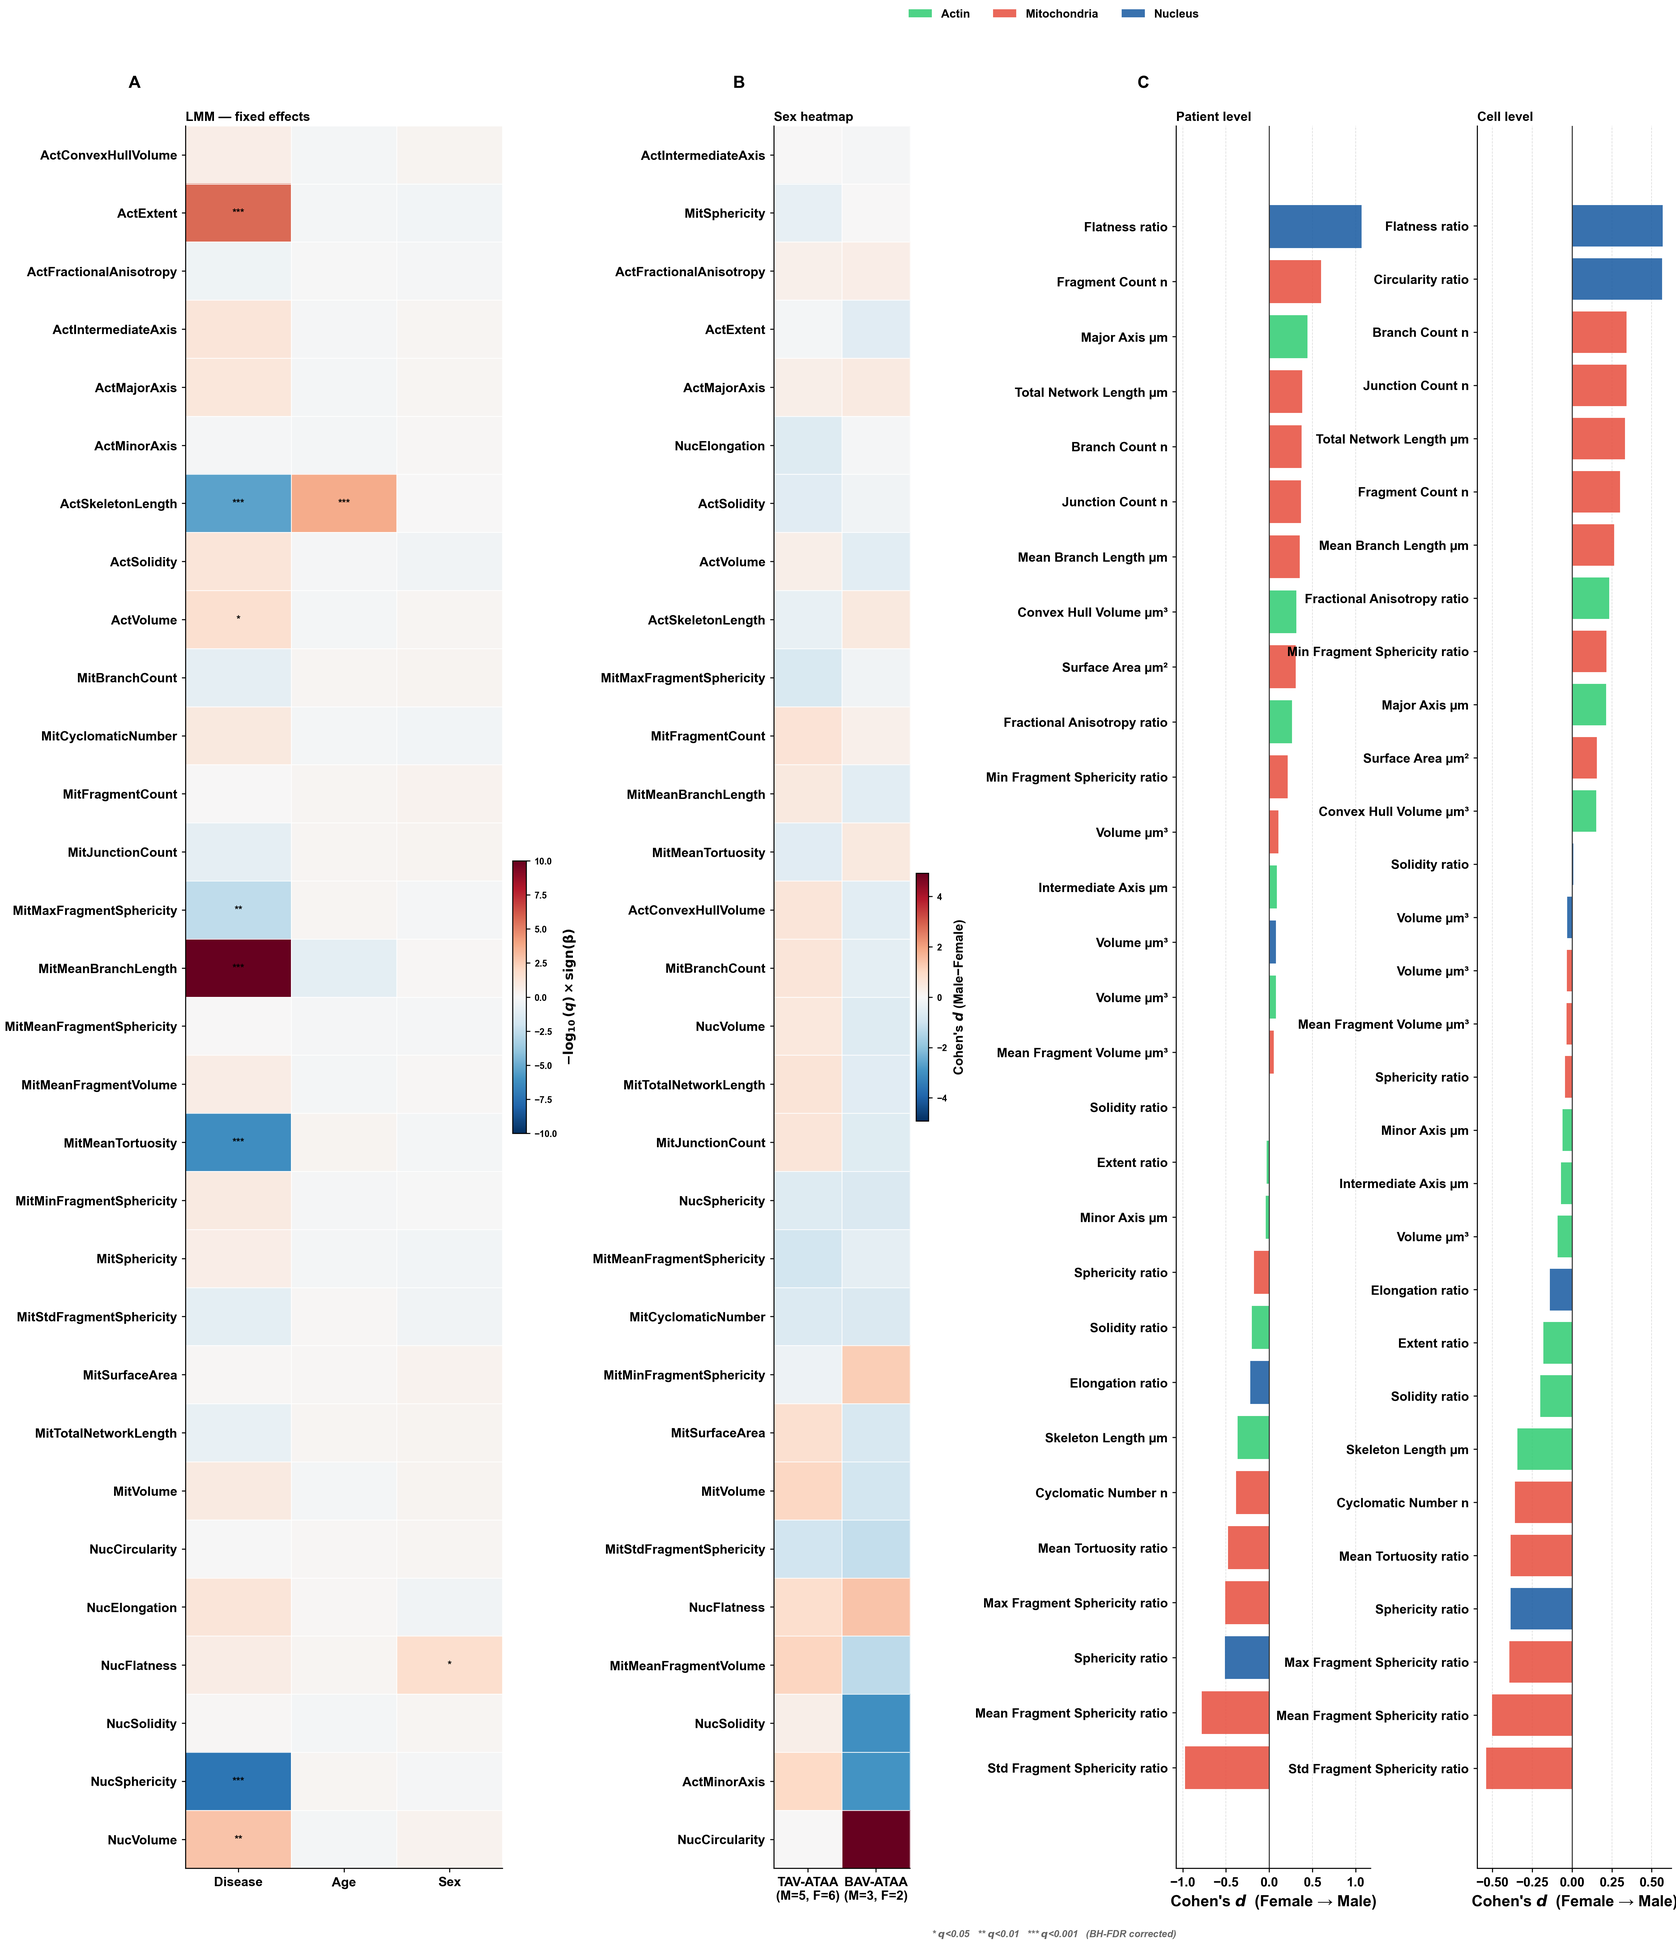
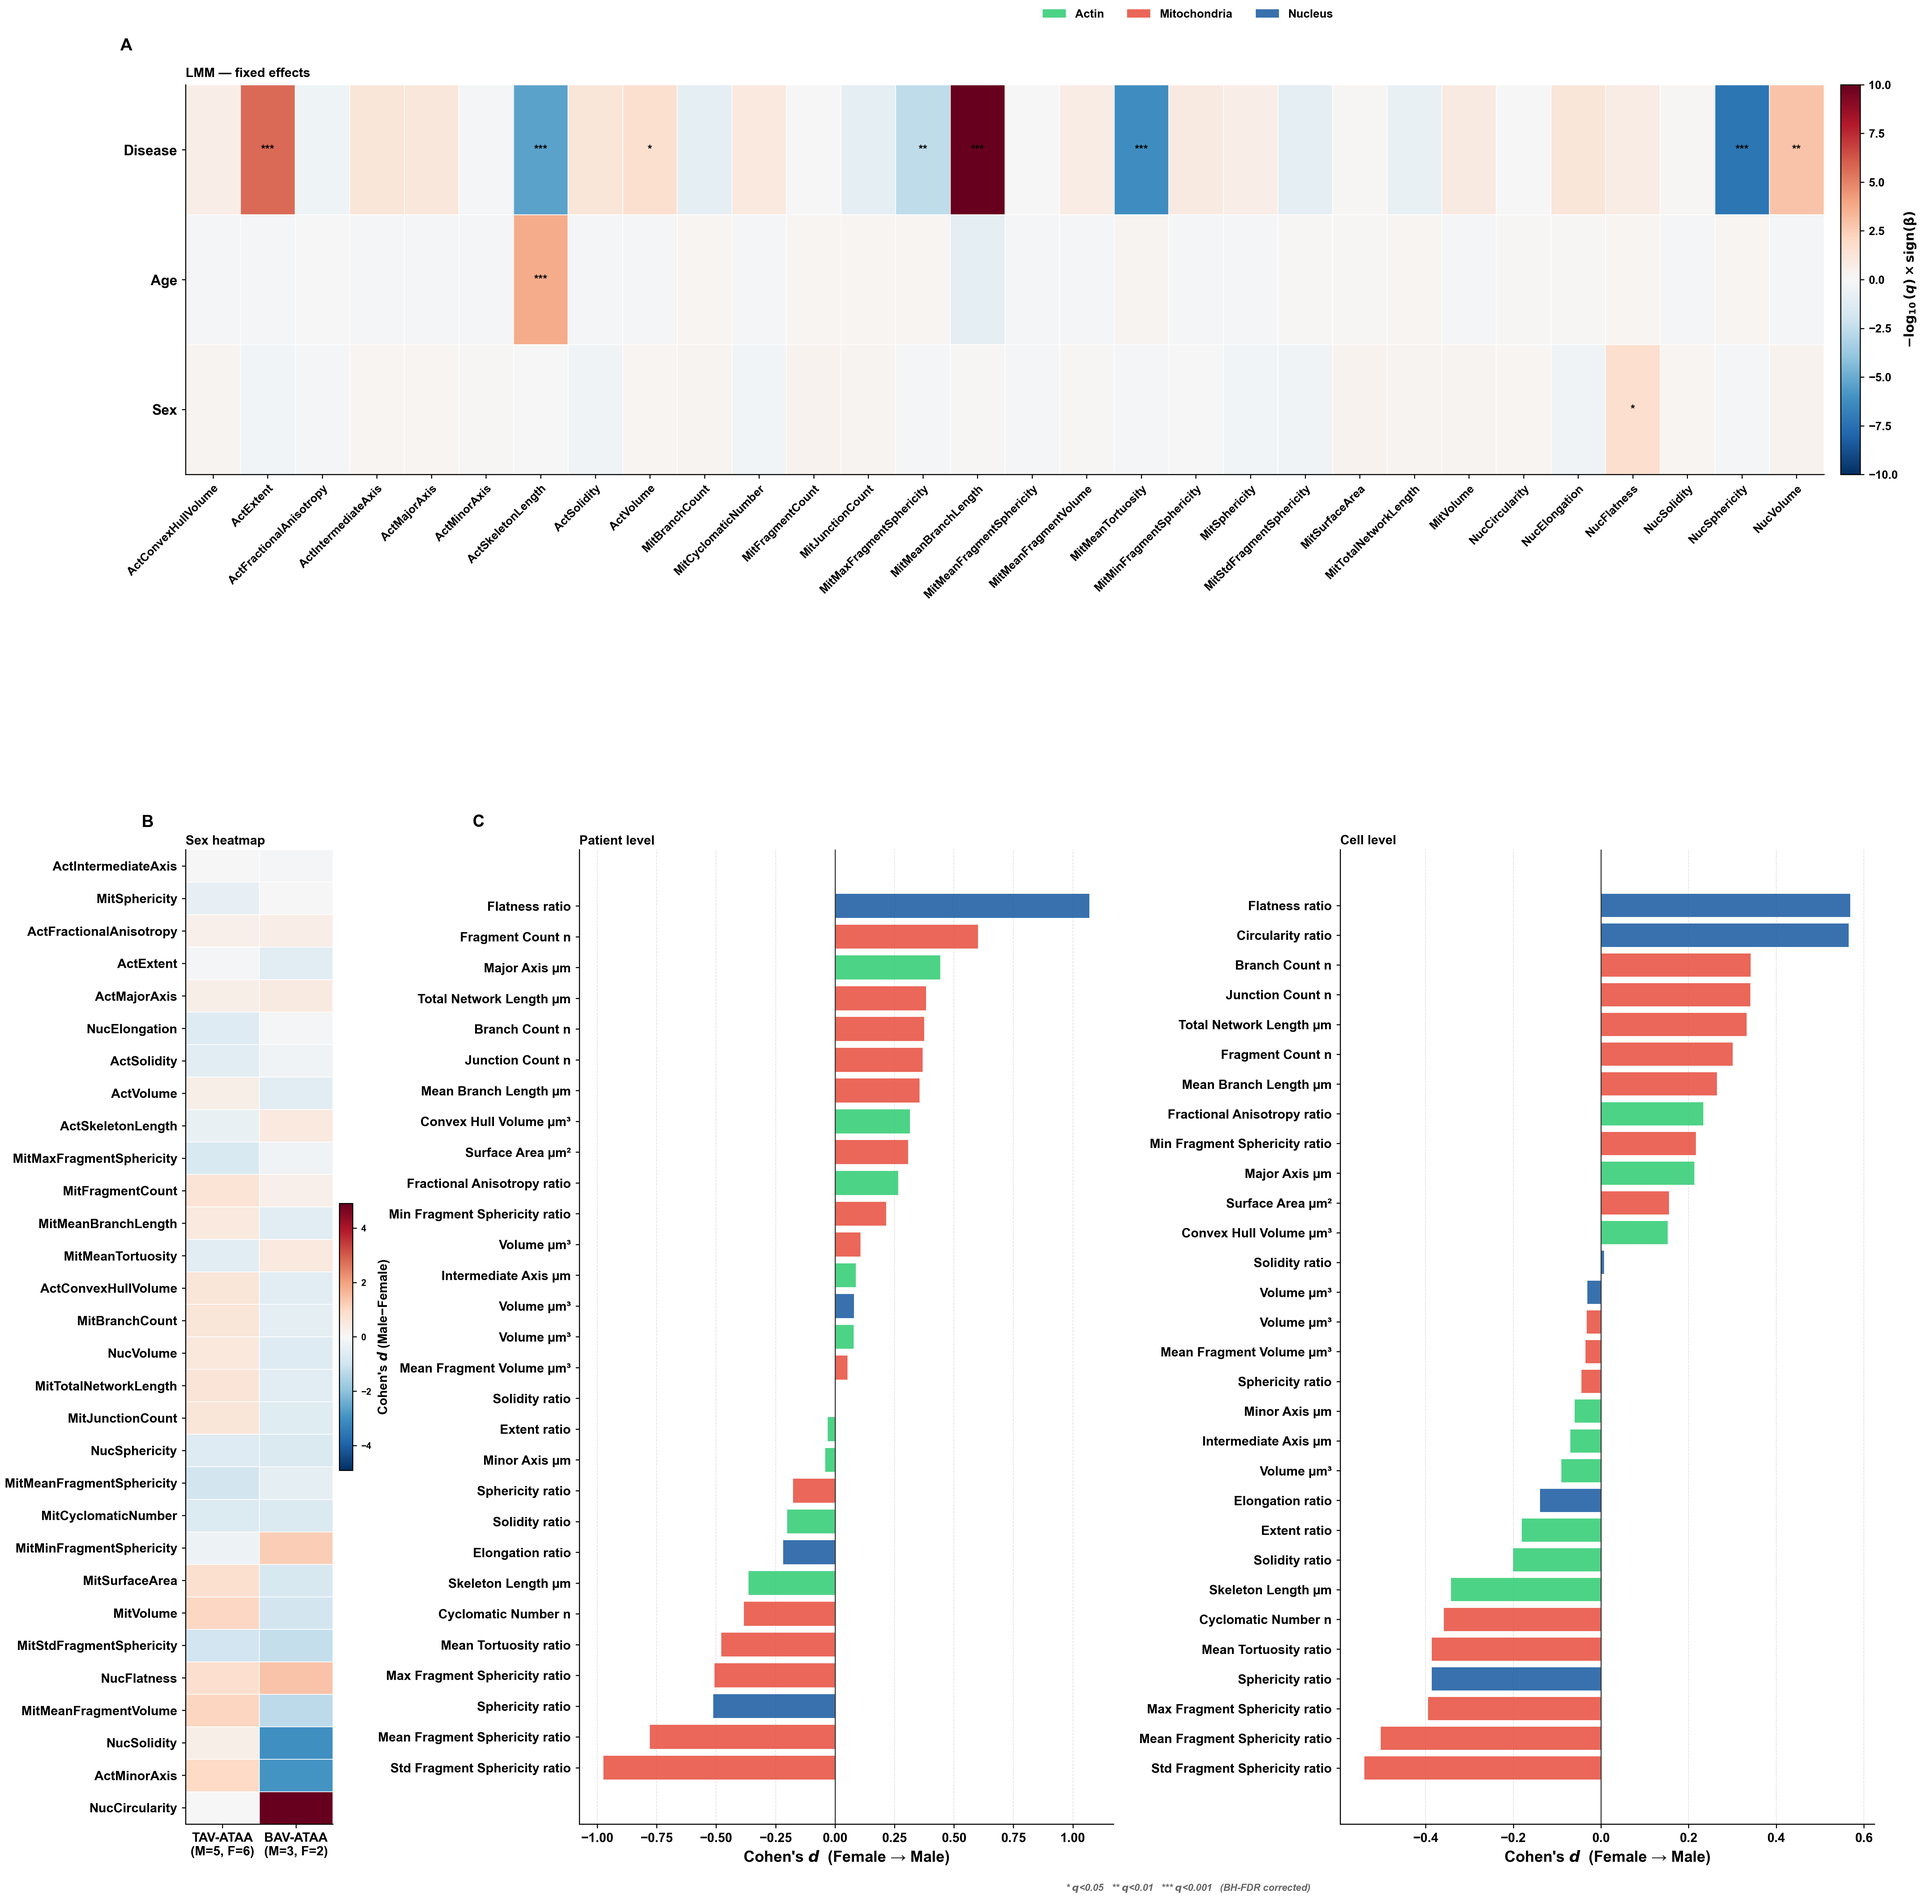
transpose LMM heatmap to horizontal layout (features=cols, terms=rows)

diff --git a/src/analysis/plot_part1_l3_l5_composite.py b/src/analysis/plot_part1_l3_l5_composite.py
@@ -97,20 +97,21 @@ plt.rcParams.update({
 })
 
 # ── figure layout ─────────────────────────────────────────────────────────────
-# A (LMM heatmap) | B (Sex heatmap) | C (Sex bars: patient + cell)
+# Top:    A — LMM heatmap (full width, horizontal: features=cols, terms=rows)
+# Bottom: B — Sex heatmap | C — Sex bars (patient + cell)
 n_feat = len(feat_cols)
-fig = plt.figure(figsize=(18, n_feat * 0.62 + 2.5))
-gs  = fig.add_gridspec(1, 3, width_ratios=[2.2, 1.0, 3.2],
-                        left=0.08, right=0.97, top=0.93, bottom=0.04,
-                        wspace=0.75)
-ax_lmm  = fig.add_subplot(gs[0])
-ax_sexh = fig.add_subplot(gs[1])
-gs_bars = gs[2].subgridspec(1, 2, wspace=0.55)
-ax_pt   = fig.add_subplot(gs_bars[0])
-ax_cell = fig.add_subplot(gs_bars[1])
+fig = plt.figure(figsize=(20, n_feat * 0.42 + 8))
+gs  = fig.add_gridspec(2, 1, height_ratios=[1, 2.5],
+                        left=0.06, right=0.97, top=0.95, bottom=0.04,
+                        hspace=0.55)
+ax_lmm   = fig.add_subplot(gs[0])
+gs_bot   = gs[1].subgridspec(1, 3, width_ratios=[1.0, 3.2, 3.2], wspace=0.55)
+ax_sexh  = fig.add_subplot(gs_bot[0])
+ax_pt    = fig.add_subplot(gs_bot[1])
+ax_cell  = fig.add_subplot(gs_bot[2])
 
 # ══════════════════════════════════════════════════════════════════════════════
-# PANEL A — LMM heatmap
+# PANEL A — LMM heatmap (horizontal: terms=rows, features=columns)
 # ══════════════════════════════════════════════════════════════════════════════
 lmm = lmm_full.copy()
 term_order = [t for t in ['Disease', 'Age', 'Sex'] if t in lmm['Term'].unique()]
@@ -124,37 +125,41 @@ pivot   = (lmm.pivot(index='Feature', columns='Term', values='score')
 sig_piv = (lmm.pivot(index='Feature', columns='Term', values='Significant')
               .reindex(index=feat_order_lmm, columns=term_order).fillna(False))
 
-y_labels_lmm = [abbrev(f) for f in feat_order_lmm]
+x_labels_lmm = [abbrev(f) for f in feat_order_lmm]
 n_f, n_t = len(feat_order_lmm), len(term_order)
 vmax_lmm = max(3.0, float(np.abs(pivot.values).max()))
 
-im_lmm = ax_lmm.imshow(pivot.values, aspect='auto',
+# Transpose: rows=terms, cols=features
+data_lmm = pivot.T.values
+sig_lmm  = sig_piv.T.values
+
+im_lmm = ax_lmm.imshow(data_lmm, aspect='auto',
                         cmap='RdBu_r', vmin=-vmax_lmm, vmax=vmax_lmm)
-ax_lmm.set_xticks(np.arange(n_t))
-ax_lmm.set_xticklabels(term_order, fontsize=10, fontweight='bold')
-ax_lmm.set_yticks(np.arange(n_f))
-ax_lmm.set_yticklabels(y_labels_lmm, fontsize=10, fontweight='bold')
-ax_lmm.set_xticks(np.arange(-0.5, n_t, 1), minor=True)
-ax_lmm.set_yticks(np.arange(-0.5, n_f, 1), minor=True)
+ax_lmm.set_yticks(np.arange(n_t))
+ax_lmm.set_yticklabels(term_order, fontsize=11, fontweight='bold')
+ax_lmm.set_xticks(np.arange(n_f))
+ax_lmm.set_xticklabels(x_labels_lmm, fontsize=9, fontweight='bold',
+                        rotation=45, ha='right', rotation_mode='anchor')
+ax_lmm.set_xticks(np.arange(-0.5, n_f, 1), minor=True)
+ax_lmm.set_yticks(np.arange(-0.5, n_t, 1), minor=True)
 ax_lmm.grid(which='minor', color='white', linewidth=0.6)
 ax_lmm.tick_params(which='minor', bottom=False, left=False)
 
 sig_map = (lmm.pivot(index='Feature', columns='Term', values='BH_q')
               .reindex(index=feat_order_lmm, columns=term_order).fillna(1.0))
-for i in range(n_f):
-    for j in range(n_t):
-        if sig_piv.iloc[i, j]:
-            ax_lmm.text(j, i, sig_stars(sig_map.iloc[i, j]),
-                        ha='center', va='center', fontsize=8, color='black')
+for i in range(n_t):
+    for j in range(n_f):
+        if sig_lmm[i, j]:
+            ax_lmm.text(j, i, sig_stars(sig_map.iloc[j, i]),
+                        ha='center', va='center', fontsize=9, color='black')
 
-cbar_lmm = fig.colorbar(im_lmm, ax=ax_lmm, fraction=0.04, pad=0.03)
+cbar_lmm = fig.colorbar(im_lmm, ax=ax_lmm, fraction=0.02, pad=0.01)
 cbar_lmm.set_label(r'$-\log_{10}(q)\times\mathrm{sign(\beta)}$', fontsize=10, fontweight='bold')
 cbar_lmm.ax.tick_params(labelsize=9)
-# no dashed threshold lines
 
-ax_lmm.text(-0.18, 1.02, 'A', transform=ax_lmm.transAxes,
+ax_lmm.text(-0.04, 1.08, 'A', transform=ax_lmm.transAxes,
             fontsize=13, fontweight='bold', va='bottom')
-ax_lmm.set_title('LMM — fixed effects', fontsize=10, pad=4, loc='left', fontweight='bold')
+ax_lmm.set_title('LMM — fixed effects', fontsize=10, pad=6, loc='left', fontweight='bold')
 
 # ══════════════════════════════════════════════════════════════════════════════
 # PANEL B — Sex heatmap (Cohen's d Male−Female within each group)

diff --git a/src/analysis/plot_part2_l3_l5_composite.py b/src/analysis/plot_part2_l3_l5_composite.py
@@ -94,19 +94,21 @@ plt.rcParams.update({
 })
 
 # ── figure layout ─────────────────────────────────────────────────────────────
+# Top:    A — LMM heatmap (full width, horizontal: features=cols, terms=rows)
+# Bottom: B — Sex heatmap | C — Sex bars (patient + cell)
 n_feat = len(feat_cols)
-fig = plt.figure(figsize=(18, n_feat * 0.62 + 2.5))
-gs  = fig.add_gridspec(1, 3, width_ratios=[2.2, 1.0, 3.2],
-                        left=0.08, right=0.97, top=0.93, bottom=0.04,
-                        wspace=0.75)
-ax_lmm  = fig.add_subplot(gs[0])
-ax_sexh = fig.add_subplot(gs[1])
-gs_bars = gs[2].subgridspec(1, 2, wspace=0.55)
-ax_pt   = fig.add_subplot(gs_bars[0])
-ax_cell = fig.add_subplot(gs_bars[1])
+fig = plt.figure(figsize=(20, n_feat * 0.42 + 8))
+gs  = fig.add_gridspec(2, 1, height_ratios=[1, 2.5],
+                        left=0.06, right=0.97, top=0.95, bottom=0.04,
+                        hspace=0.55)
+ax_lmm   = fig.add_subplot(gs[0])
+gs_bot   = gs[1].subgridspec(1, 3, width_ratios=[1.0, 3.2, 3.2], wspace=0.55)
+ax_sexh  = fig.add_subplot(gs_bot[0])
+ax_pt    = fig.add_subplot(gs_bot[1])
+ax_cell  = fig.add_subplot(gs_bot[2])
 
 # ══════════════════════════════════════════════════════════════════════════════
-# PANEL A — LMM heatmap
+# PANEL A — LMM heatmap (horizontal: terms=rows, features=columns)
 # ══════════════════════════════════════════════════════════════════════════════
 lmm = lmm_full.copy()
 term_order = [t for t in ['Disease', 'Age', 'Sex'] if t in lmm['Term'].unique()]
@@ -122,34 +124,39 @@ sig_piv = (lmm.pivot(index='Feature', columns='Term', values='Significant')
 sig_map = (lmm.pivot(index='Feature', columns='Term', values='BH_q')
               .reindex(index=feat_order_lmm, columns=term_order).fillna(1.0))
 
-y_labels_lmm = [abbrev(f) for f in feat_order_lmm]
+x_labels_lmm = [abbrev(f) for f in feat_order_lmm]
 n_f, n_t = len(feat_order_lmm), len(term_order)
 vmax_lmm = max(3.0, float(np.abs(pivot.values).max()))
 
-im_lmm = ax_lmm.imshow(pivot.values, aspect='auto',
+# Transpose: rows=terms, cols=features
+data_lmm = pivot.T.values
+sig_lmm  = sig_piv.T.values
+
+im_lmm = ax_lmm.imshow(data_lmm, aspect='auto',
                         cmap='RdBu_r', vmin=-vmax_lmm, vmax=vmax_lmm)
-ax_lmm.set_xticks(np.arange(n_t))
-ax_lmm.set_xticklabels(term_order, fontsize=10, fontweight='bold')
-ax_lmm.set_yticks(np.arange(n_f))
-ax_lmm.set_yticklabels(y_labels_lmm, fontsize=10, fontweight='bold')
-ax_lmm.set_xticks(np.arange(-0.5, n_t, 1), minor=True)
-ax_lmm.set_yticks(np.arange(-0.5, n_f, 1), minor=True)
+ax_lmm.set_yticks(np.arange(n_t))
+ax_lmm.set_yticklabels(term_order, fontsize=11, fontweight='bold')
+ax_lmm.set_xticks(np.arange(n_f))
+ax_lmm.set_xticklabels(x_labels_lmm, fontsize=9, fontweight='bold',
+                        rotation=45, ha='right', rotation_mode='anchor')
+ax_lmm.set_xticks(np.arange(-0.5, n_f, 1), minor=True)
+ax_lmm.set_yticks(np.arange(-0.5, n_t, 1), minor=True)
 ax_lmm.grid(which='minor', color='white', linewidth=0.6)
 ax_lmm.tick_params(which='minor', bottom=False, left=False)
 
-for i in range(n_f):
-    for j in range(n_t):
-        if sig_piv.iloc[i, j]:
-            ax_lmm.text(j, i, sig_stars(sig_map.iloc[i, j]),
-                        ha='center', va='center', fontsize=8, color='black')
+for i in range(n_t):
+    for j in range(n_f):
+        if sig_lmm[i, j]:
+            ax_lmm.text(j, i, sig_stars(sig_map.iloc[j, i]),
+                        ha='center', va='center', fontsize=9, color='black')
 
-cbar_lmm = fig.colorbar(im_lmm, ax=ax_lmm, fraction=0.04, pad=0.03)
+cbar_lmm = fig.colorbar(im_lmm, ax=ax_lmm, fraction=0.02, pad=0.01)
 cbar_lmm.set_label(r'$-\log_{10}(q)\times\mathrm{sign(\beta)}$', fontsize=10, fontweight='bold')
-cbar_lmm.ax.tick_params(labelsize=7)
+cbar_lmm.ax.tick_params(labelsize=9)
 
-ax_lmm.text(-0.18, 1.02, 'A', transform=ax_lmm.transAxes,
+ax_lmm.text(-0.04, 1.08, 'A', transform=ax_lmm.transAxes,
             fontsize=13, fontweight='bold', va='bottom')
-ax_lmm.set_title('LMM — fixed effects', fontsize=10, pad=4, loc='left', fontweight='bold')
+ax_lmm.set_title('LMM — fixed effects', fontsize=10, pad=6, loc='left', fontweight='bold')
 
 # ══════════════════════════════════════════════════════════════════════════════
 # PANEL B — Sex heatmap

diff --git a/src/analysis/shared_stats.py b/src/analysis/shared_stats.py
@@ -848,40 +848,44 @@ def plot_lmm_heatmap(lmm, path):
                  .reindex(index=feat_order, columns=term_order).fillna(False))
 
     def _full_label(feat):
-        """Return clean feature name without organelle prefix."""
         for prefix in ('Actin_', 'Mito_', 'Nucleus_'):
             if feat.startswith(prefix):
                 feat = feat[len(prefix):]
                 break
         return feat.replace('_', ' ')
 
-    y_labels = [_full_label(f) for f in feat_order]
+    x_labels = [_full_label(f) for f in feat_order]
     n_feat, n_term = len(feat_order), len(term_order)
     vmax = max(3.0, float(np.abs(pivot.values).max()))
 
-    fig, ax = plt.subplots(figsize=(max(5.0, n_term * 1.3), max(6.0, n_feat * 0.42)))
-    im = ax.imshow(pivot.values, aspect='auto', cmap='RdBu_r', vmin=-vmax, vmax=vmax)
+    # Horizontal layout: terms = rows (y), features = columns (x)
+    data = pivot.T.values   # shape: (n_term, n_feat)
+    sig  = sig_pv.T.values
 
-    ax.set_xticks(np.arange(n_term))
-    ax.set_xticklabels(term_order, fontsize=13, fontfamily='Arial', fontweight='bold')
-    ax.set_yticks(np.arange(n_feat))
-    ax.set_yticklabels(y_labels, fontsize=12, fontfamily='Arial', fontweight='bold')
+    fig, ax = plt.subplots(figsize=(max(8.0, n_feat * 0.42), max(2.5, n_term * 1.1)))
+    im = ax.imshow(data, aspect='auto', cmap='RdBu_r', vmin=-vmax, vmax=vmax)
 
-    ax.set_xticks(np.arange(-0.5, n_term, 1), minor=True)
-    ax.set_yticks(np.arange(-0.5, n_feat, 1), minor=True)
+    ax.set_yticks(np.arange(n_term))
+    ax.set_yticklabels(term_order, fontsize=12, fontfamily='Arial', fontweight='bold')
+    ax.set_xticks(np.arange(n_feat))
+    ax.set_xticklabels(x_labels, fontsize=10, fontfamily='Arial', fontweight='bold',
+                        rotation=45, ha='right', rotation_mode='anchor')
+
+    ax.set_xticks(np.arange(-0.5, n_feat, 1), minor=True)
+    ax.set_yticks(np.arange(-0.5, n_term, 1), minor=True)
     ax.grid(which='minor', color='white', linewidth=0.6)
     ax.tick_params(which='minor', bottom=False, left=False)
 
-    for i in range(n_feat):
-        for j in range(n_term):
-            if sig_pv.iloc[i, j]:
+    for i in range(n_term):
+        for j in range(n_feat):
+            if sig[i, j]:
                 ax.text(j, i, '*', ha='center', va='center', fontsize=13,
                         fontfamily='Arial', color='black')
 
-    cbar = fig.colorbar(im, ax=ax, fraction=0.04, pad=0.03)
+    cbar = fig.colorbar(im, ax=ax, fraction=0.03, pad=0.02)
     cbar.set_label(r'$-\log_{10}(p_\mathrm{FDR})\times\mathrm{sign(coef)}$',
-                   fontsize=11, fontfamily='Arial')
-    cbar.ax.tick_params(labelsize=10)
+                   fontsize=10, fontfamily='Arial', fontweight='bold')
+    cbar.ax.tick_params(labelsize=9)
     thr = -np.log10(ALPHA)
     for sgn in [1, -1]:
         cbar.ax.axhline(sgn * thr, color='black', ls='--', lw=0.8)
